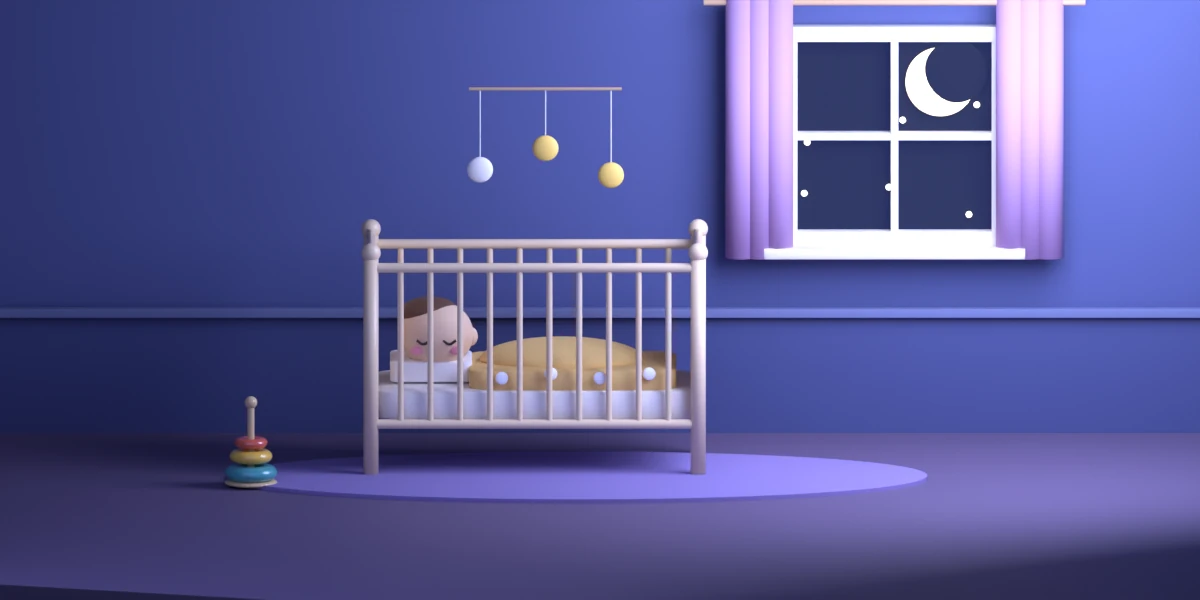
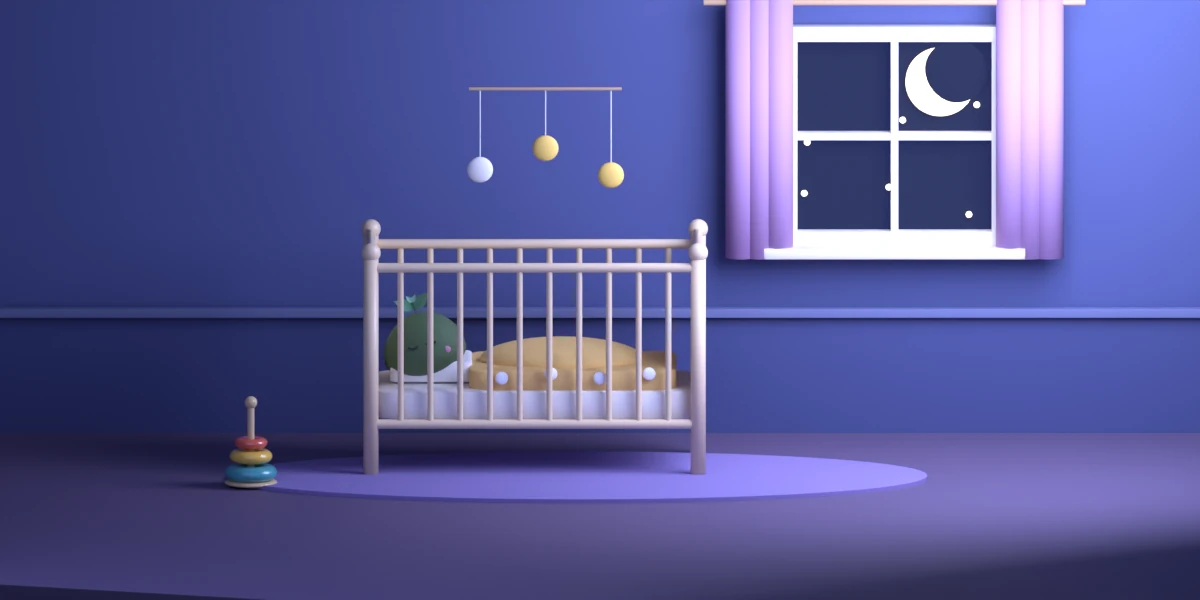
Cast in the app: Otto keeps watch beside Moss on the growth map, Otto hugs Moss's picture, no girl's set in 3D (one cast), Moss asleep in the crib at night
Claude-Session: https://claude.ai/code/session_01UTvD6AgKvTyZ1ghsbDDvi8

Changed region(s): [[0.3083, 0.48, 0.4008, 0.63]]

diff --git a/ios/Mossling/UI/GrowthWheel.swift b/ios/Mossling/UI/GrowthWheel.swift
@@ -38,7 +38,15 @@ struct GrowthWheel: View {
                     .frame(maxWidth: .infinity, maxHeight: .infinity, alignment: .bottom)
                     .padding(.bottom, 6)
                 }
-                Duo(primary: app.companion, size: 64, look: CGPoint(x: -0.8, y: 0.1), poke: true, cheer: arrived &+ giggles, night: night, briefLamp: night && StagePlate.room)
+                // 3D: Moss is the child on the stage, so Otto keeps watch beside him alone (the grown-up and the child)
+                Group {
+                    if ArtStyle.current == .vinyl {
+                        Creature(kind: .otto, look: CGPoint(x: -0.8, y: 0.2), lid: night ? 0.5 : nil, poke: true, glow: night, glowFor: night ? 4.5 : nil)
+                            .frame(width: 64 * Kind.otto.scale, height: 64 * Kind.otto.scale)
+                    } else {
+                        Duo(primary: app.companion, size: 64, look: CGPoint(x: -0.8, y: 0.1), poke: true, cheer: arrived &+ giggles, night: night, briefLamp: night && StagePlate.room)
+                    }
+                }
                     .frame(maxWidth: .infinity, maxHeight: .infinity, alignment: .bottomTrailing)
                     .padding(.trailing, 8).padding(.bottom, 4)
                 VStack(alignment: .leading, spacing: 4) {

diff --git a/ios/Mossling/UI/YouView.swift b/ios/Mossling/UI/YouView.swift
@@ -311,6 +311,8 @@ struct ProfileSheet: View {
                         Text("不填").tag(""); Text("男孩").tag("boy"); Text("女孩").tag("girl")
                     }
                 } footer: { Text("性别只用于选择 WHO 生长曲线。") }
+                // 3D: the pictures are acted by Moss and Otto, the same for every child — nothing to choose
+                if ArtStyle.current == .flat {
                 Section {
                     HStack(spacing: 12) {
                         ForEach(["boy", "girl"], id: \.self) { k in
@@ -333,6 +335,7 @@ struct ProfileSheet: View {
                     }
                     .listRowBackground(Color.clear).listRowInsets(EdgeInsets(top: 4, leading: 0, bottom: 4, trailing: 0))
                 } header: { Text("图里的宝宝") } footer: { Text("只改变插画里宝宝的样子，与伙伴无关；没选时跟随性别。") }
+                }
             }
             .navigationTitle("宝宝").navigationBarTitleDisplayMode(.inline)
             .toolbar { ToolbarItem(placement: .confirmationAction) { Button("完成", systemImage: "checkmark") { if hasBirth { app.birth = Day(date) }; dismiss() } } }

diff --git a/ios/Mossling/UI/Components.swift b/ios/Mossling/UI/Components.swift
@@ -54,7 +54,8 @@ final class ArtCache {
 extension ArtIndex {
     /// The girl's version of a picture with the child in it, when there is one.
     static func variant(_ name: String, girl: Bool) -> String {
-        guard girl, name.hasSuffix(".webp") else { return name }
+        // the 3D pictures are acted by Moss and Otto: one cast for every child, so no girl's set
+        guard girl, ArtStyle.current == .flat, name.hasSuffix(".webp") else { return name }
         let g = String(name.dropLast(5)) + "_g.webp"
         return shared.size[g] == nil ? name : g
     }

diff --git a/ios/Mossling/IP/Hug.swift b/ios/Mossling/IP/Hug.swift
@@ -12,7 +12,8 @@ struct HuggedAvatar: View {
     @State private var hugs = 0
 
     var body: some View {
-        let kind = app.companion
+        // 3D: the picture is Moss (the child), so it is Otto (the grown-up) who hugs him
+        let kind: Kind = ArtStyle.current == .vinyl ? .otto : app.companion
         let c = size * 0.74
         // the companion's box: its body overlaps the frame's right edge
         let box = CGRect(x: size * 0.6, y: size - c * 0.86, width: c, height: c)

diff --git a/tools/plates3d.py b/tools/plates3d.py
@@ -142,17 +142,13 @@ def room(out="stage_room"):
     sphere("body", (cx + 0.25, cy - 0.05, bot + 0.5), (0.75, 0.45, 0.2), blanket)
     for i in range(4):   # dots on the blanket
         sphere("dot", (cx - 0.3 + i * 0.45, cy - 0.66, bot + 0.42 + (i % 2) * 0.04), (0.06, 0.02, 0.06), rubber("dotc", "#FFFFFF"), seg=16)
-    # the child: head on the pillow, eyes closed, cheeks warm, a tuft of hair
-    hx, hy, hz = cx - 0.9, cy - 0.1, bot + 0.74
-    skin = rubber("skin", "#F2CDA8", rough=0.55)
-    sphere("head", (hx, hy, hz), (0.34, 0.32, 0.31), skin)
-    sphere("hair", (hx - 0.06, hy + 0.04, hz + 0.2), (0.27, 0.25, 0.14), rubber("hair", "#6B4A35"))
-    sphere("ear", (hx + 0.31, hy, hz - 0.02), (0.07, 0.06, 0.09), skin)
-    ink = rubber("ink", "#3B3330")
-    for ex in (-0.12, 0.12):
-        pts = [(hx + ex + dx, hy - 0.305, hz - 0.01 - 0.035 * (1 - (dx / 0.06) ** 2)) for dx in (-0.06, 0, 0.06)]
-        ip3d.tube("lid", pts, 0.012, ink)
-        sphere("cheek", (hx + ex * 1.5, hy - 0.27, hz - 0.11), (0.06, 0.02, 0.04), rubber("cheekc", "#F59AA6"), seg=16)
+    # the child is Moss: asleep on the pillow under the blanket, eyes shut, the mint sprig on the pillow
+    ip3d.materials()
+    moss = ip3d.build_moss(shut="down", perk=0.0)
+    for o in list(moss.children):
+        if o.name.startswith("moss_foot"): bpy.data.objects.remove(o, do_unlink=True)
+    moss.scale = (0.62, 0.62, 0.62); moss.rotation_euler = (0, math.radians(-14), 0)
+    moss.location = (cx - 0.95, cy - 0.12, bot + 0.36)
     # a soft toy beside the crib on the rug, and a ring stacker
     ip3d.ring_stacker((-3.2, -0.2), 1.3)
     # a mobile over the crib: a moon and two stars on threads
